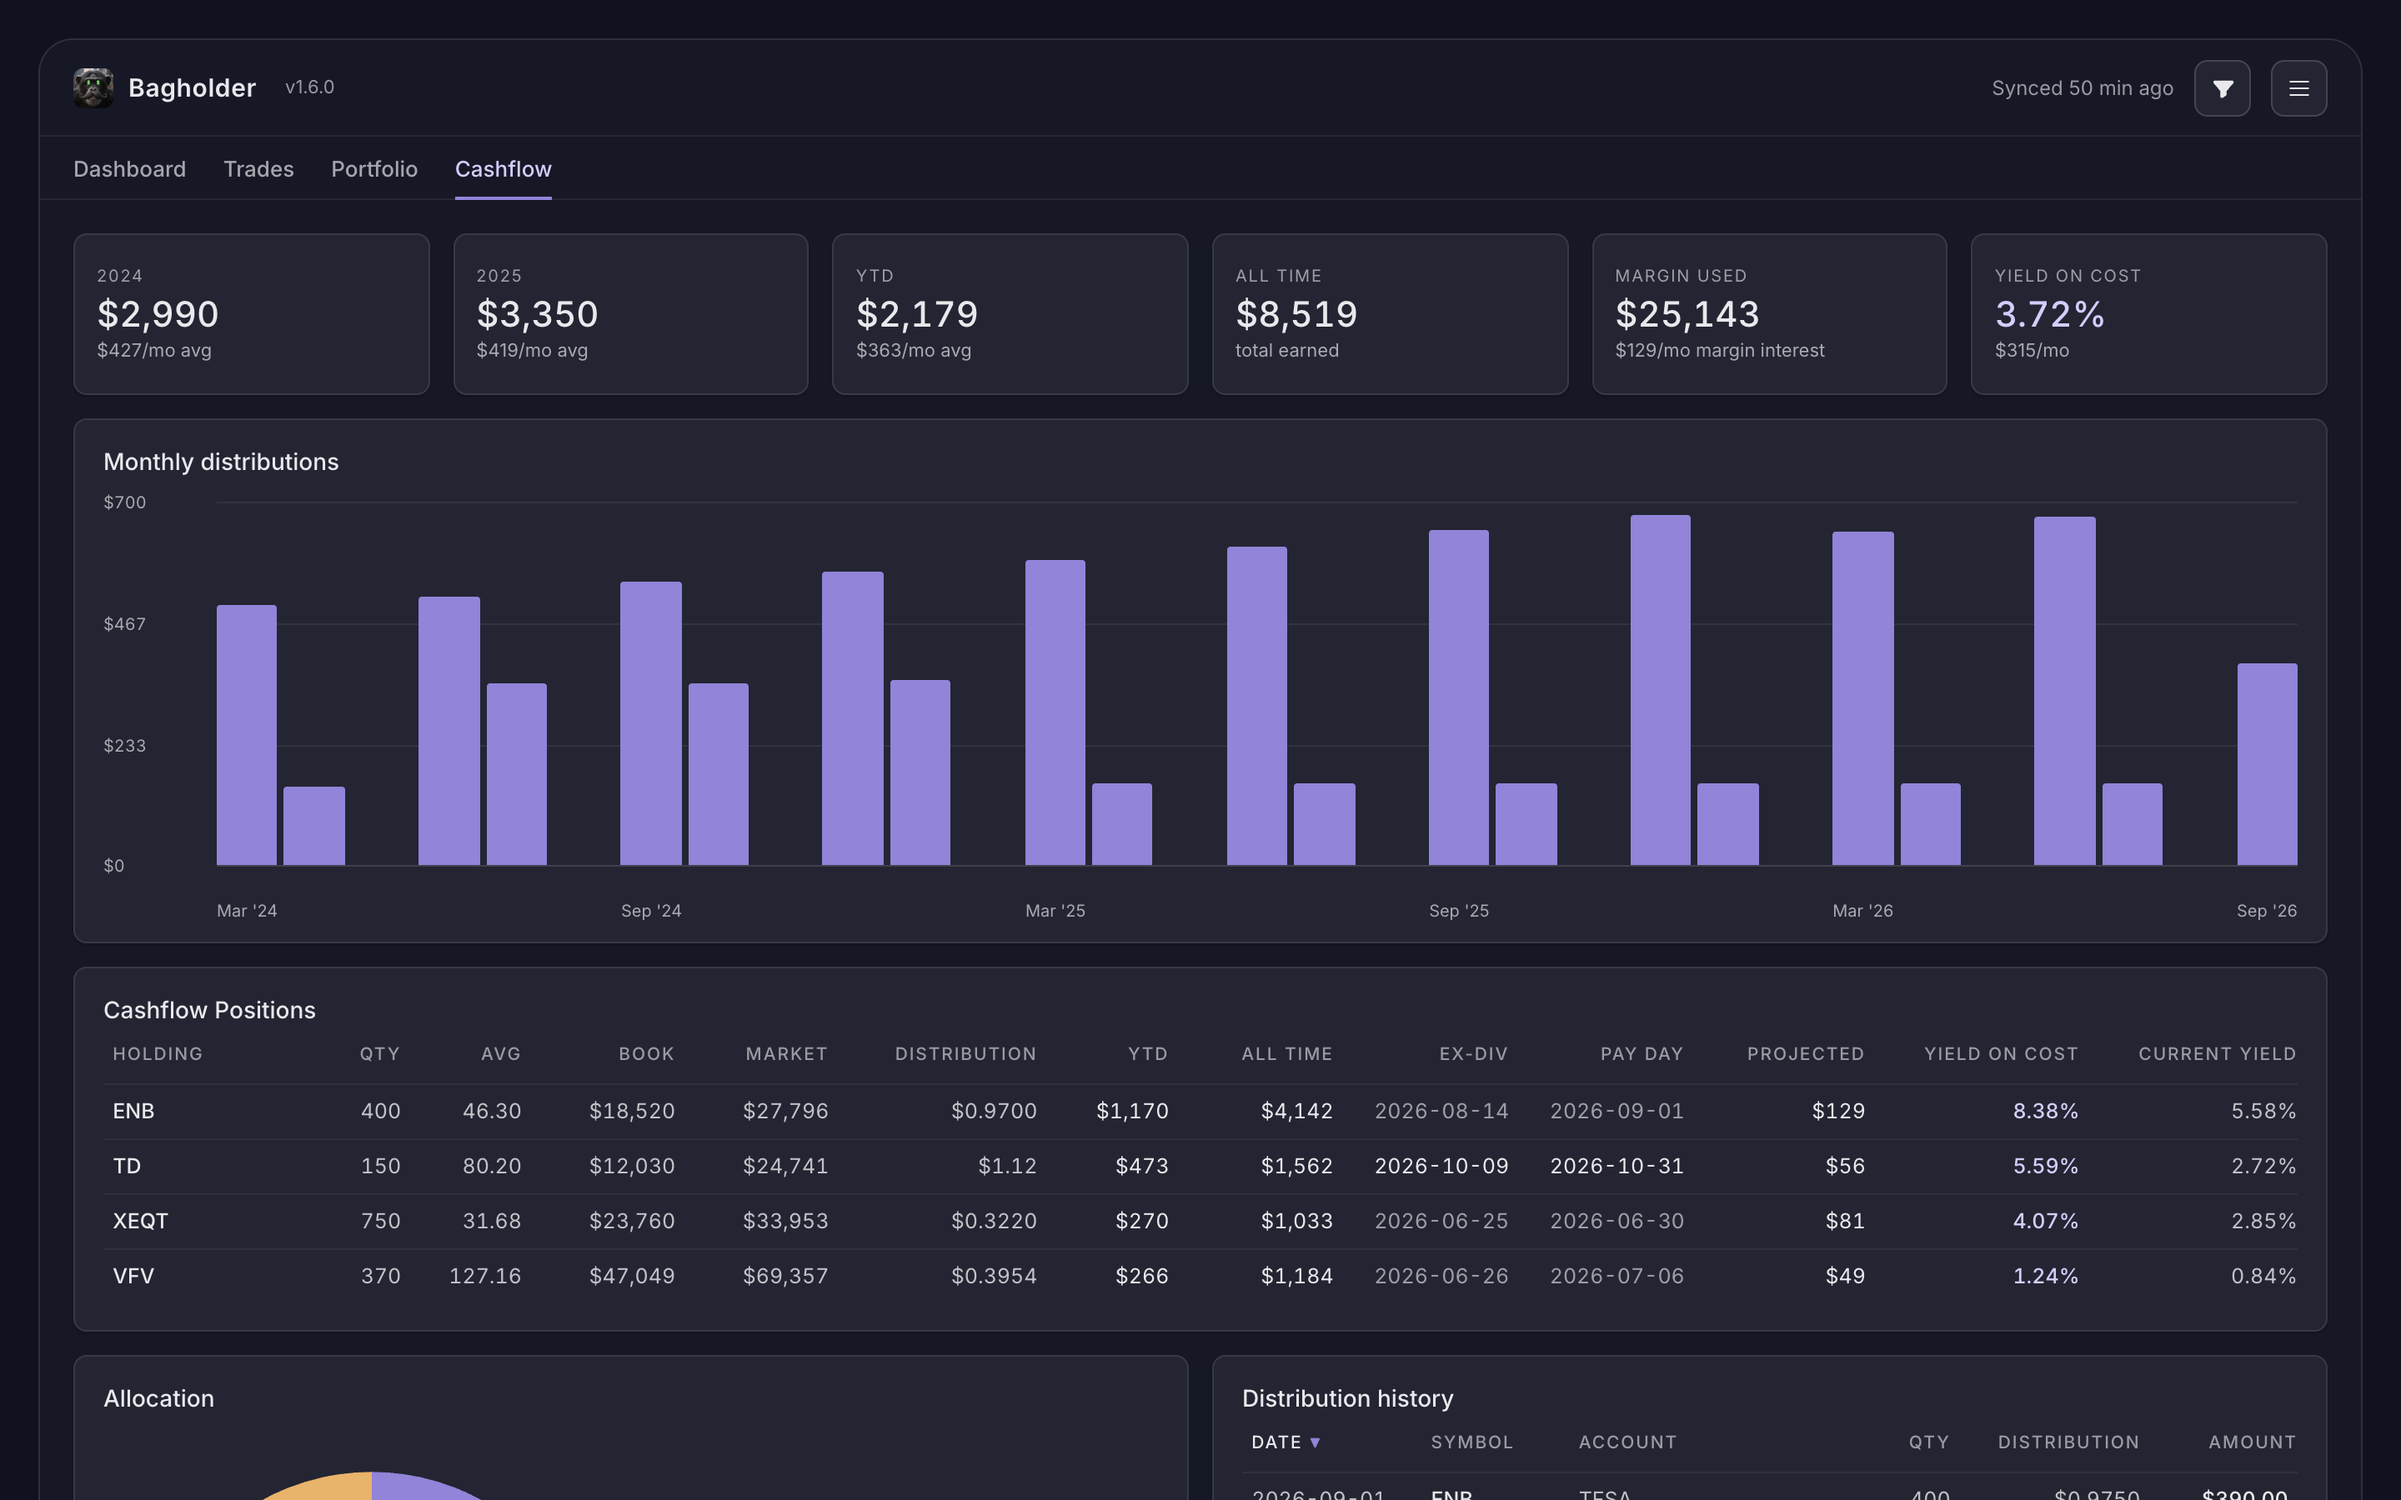
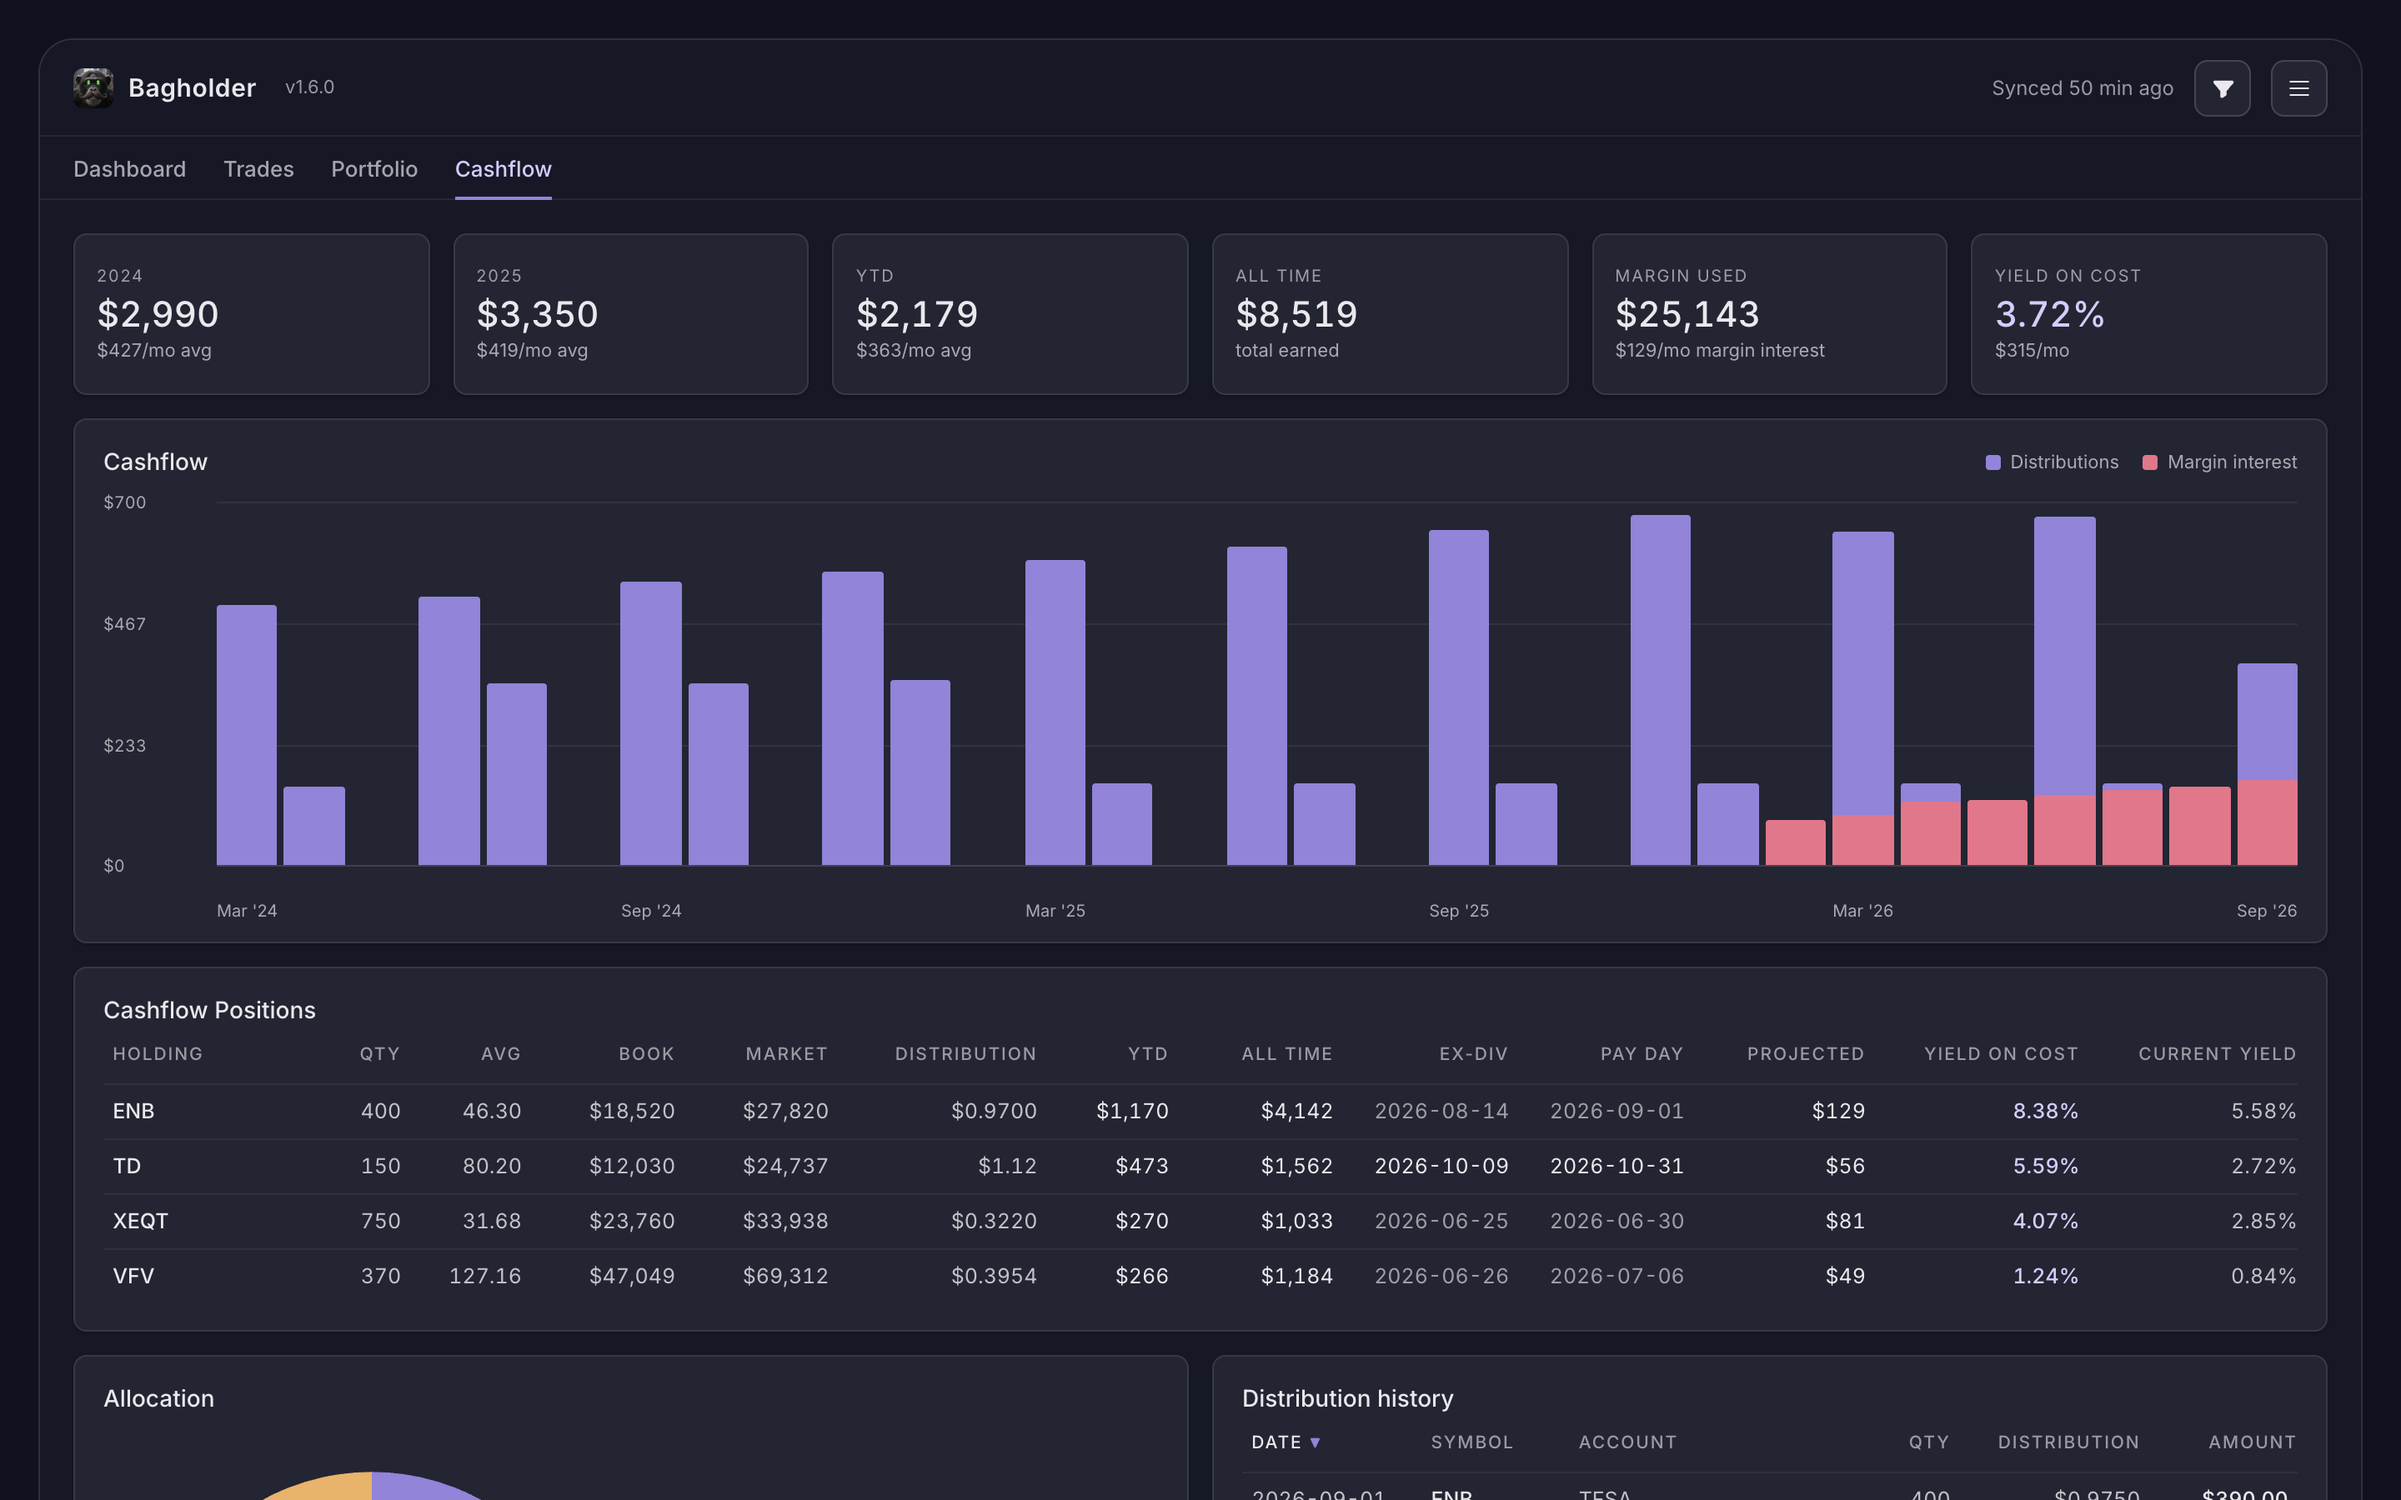
Cashflow chart: the month's margin interest over its distributions, legend in the title row.
The Monthly distributions card is the Cashflow card. Each month's
margin interest (the Interest charge rows in scope, CAD) is drawn over
the month's distributions from the same baseline at the same width in
the negative colour, so the accent left above it is the net; the
taller bar sits behind, so a month whose interest exceeds its
distributions shows the negative colour above the accent. The scale
fits the taller of the two. The legend sits at the right of the title
row. Hover shows the month, Distributions, Margin interest and Net
cashflow. SPEC §4 updated; the README desktop image reshot.

Changed region(s): [[0.7188, 0.4978, 0.9688, 0.5911], [0.0312, 0.28, 0.125, 0.3111]]

diff --git a/ledger.html b/ledger.html
@@ -1283,7 +1283,8 @@ function cashflowHtml(m) {
   const skipped = c.skippedFilters || [];
   const note = skipped.length ? skipped.join(", ") + (skipped.length > 1 ? " filters do not" : " filter does not") + " apply to distributions — only account, date and symbol narrow this page." : "";
   const ms = c.months || [];
-  const peak = Math.max.apply(null, ms.map((x) => x.value).concat([0]));
+  const interest = cfInterestByMonth(c);
+  const peak = Math.max.apply(null, ms.map((x) => Math.max(x.value, interest[x.key] || 0)).concat([0]));
   const head = Math.max(100, Math.ceil(peak / 100) * 100);
   const want = Math.min(6, ms.length);
   const axis = [];
@@ -1304,11 +1305,19 @@ function cashflowHtml(m) {
   const otherLine = "";
   return '<div style="padding:20px;display:flex;flex-direction:column;gap:14px;min-height:380px"><div style="display:grid;grid-template-columns:repeat(6,minmax(0,1fr));gap:14px">' + tiles + "</div>" +
     (note ? '<div class="dim" style="font-size:11px;line-height:1.5">' + esc(note) + "</div>" : "") +
-    '<div class="card elev-sm" style="padding:16px 18px 12px"><h5>Monthly distributions</h5><div style="display:flex;gap:10px;flex:1;min-height:232px;margin-top:14px"><div style="position:relative;width:58px;flex:none;font-size:10px;color:var(--ink60)" class="tab">' +
+    '<div class="card elev-sm" style="padding:16px 18px 12px"><div style="display:flex;align-items:baseline;justify-content:space-between;gap:8px"><h5>Cashflow</h5>' +
+    '<div style="display:flex;align-items:center;gap:14px;font-size:11px;color:var(--ink60)"><span style="display:inline-flex;align-items:center;gap:6px"><span style="width:9px;height:9px;border-radius:2px;background:var(--accent-bar)"></span>Distributions</span><span style="display:inline-flex;align-items:center;gap:6px"><span style="width:9px;height:9px;border-radius:2px;background:var(--neg)"></span>Margin interest</span></div></div>' +
+    '<div style="display:flex;gap:10px;flex:1;min-height:232px;margin-top:14px"><div style="position:relative;width:58px;flex:none;font-size:10px;color:var(--ink60)" class="tab">' +
     [0, 1, 2, 3].map((i) => '<span style="position:absolute;left:0;top:' + (i / 3 * 94).toFixed(1) + '%;transform:translateY(-50%)">' + money0(head * (1 - i / 3)) + "</span>").join("") + "</div>" +
-    '<div id="cfPlot" style="position:relative;flex:1;min-width:0;display:flex;gap:4px;align-items:stretch" data-hover="cf"><div id="cfX" class="xline" hidden></div><div id="cfTip" class="tip" hidden><div class="tv" style="color:var(--accent-300)"></div><div class="tl"></div></div>' +
+    '<div id="cfPlot" style="position:relative;flex:1;min-width:0;display:flex;gap:4px;align-items:stretch" data-hover="cf"><div id="cfX" class="xline" hidden></div><div id="cfTip" class="tip" hidden></div>' +
     [0, 1, 2, 3].map((i) => '<div style="position:absolute;left:0;right:0;top:' + (i / 3 * 94).toFixed(1) + "%;height:1px;background:" + (i === 3 ? "var(--hair)" : "var(--grid)") + '"></div>').join("") +
-    (ms.length ? ms.map((b, i) => '<div class="bar-col" data-i="' + i + '" style="cursor:default"><div style="position:absolute;left:0;right:0;bottom:6%;height:' + (b.count === 0 ? 0 : Math.max(1.5, b.value / head * 94)).toFixed(1) + '%;background:var(--accent-bar);border-radius:2px 2px 0 0"></div></div>').join("") : '<div class="muted empty" style="flex:1;font-size:12px">No distributions in this range.</div>') +
+    (ms.length ? ms.map((b, i) => {
+      // the month's margin interest over its distributions from the same baseline at the same width; the taller bar behind
+      const hd = b.count === 0 ? 0 : Math.max(1.5, b.value / head * 94), hi = (interest[b.key] || 0) / head * 94;
+      const bar = (h, color) => '<div style="position:absolute;left:0;right:0;bottom:6%;height:' + h.toFixed(1) + "%;background:" + color + ';border-radius:2px 2px 0 0"></div>';
+      const dist = bar(hd, "var(--accent-bar)"), intr = hi > 0 ? bar(hi, "var(--neg)") : "";
+      return '<div class="bar-col" data-i="' + i + '" style="cursor:default">' + (hi > hd ? intr + dist : dist + intr) + "</div>";
+    }).join("") : '<div class="muted empty" style="flex:1;font-size:12px">No distributions in this range.</div>') +
     '</div></div><div style="display:flex;justify-content:space-between;font-size:10px;color:var(--ink60);padding-left:68px;margin-top:6px">' + [...new Set(axis)].map((a) => "<span>" + esc(a) + "</span>").join("") + "</div>" +
     (otherLine ? '<div class="muted" style="font-size:10px;margin-top:8px;padding-left:68px">' + esc(otherLine) + "</div>" : "") + "</div>" +
     '<div class="card elev-sm" style="padding:16px 18px"><h5 style="margin-bottom:4px">Cashflow Positions</h5><div class="scroll" style="max-height:344px"><table class="table" style="font-size:12px;table-layout:fixed"><thead><tr>' + th("yoc", ycols) + "</tr></thead><tbody>" +
@@ -1366,6 +1375,12 @@ function cashflowHoldingRows() {
   const c = state.model.cashflow; const posById = {}; (state.model.positions || []).forEach((p) => { posById[p.id] = p; });
   return (c.holdings || []).map((h) => { const p = posById[h.id]; return Object.assign({}, h, { mv: p ? p.mv : null }); });
 }
+// The month's margin interest, CAD, from the Interest charge rows in scope.
+function cfInterestByMonth(c) {
+  const out = {};
+  (c.other || []).forEach((r) => { if (r.kind === "Interest charge") { const k = String(r.date).slice(0, 7); out[k] = (out[k] || 0) - r.amountCad; } });
+  return out;
+}
 function cfHover(e) {
   const m = state.model; if (!m) return;
   const col = e.target.closest(".bar-col"); if (!col) return;
@@ -1375,8 +1390,9 @@ function cfHover(e) {
   const xl = document.getElementById("cfX"), tip = document.getElementById("cfTip");
   xl.style.left = x; xl.hidden = false;
   tip.style.left = x; tip.style.transform = "translateX(" + (i > n * 0.7 ? "-100%" : "-8px") + ")";
-  tip.querySelector(".tv").textContent = money0(b.value);
-  tip.querySelector(".tl").textContent = monthLong(b.key);
+  const intr = cfInterestByMonth(m.cashflow)[b.key] || 0, net = b.value - intr;
+  const row = (label, value, color) => '<div class="tv" style="display:flex;justify-content:space-between;gap:16px' + (color ? ";color:" + color : "") + '"><span style="font-weight:400;color:var(--ink60)">' + label + "</span><span>" + value + "</span></div>";
+  tip.innerHTML = '<div class="tl" style="margin-bottom:2px">' + esc(monthLong(b.key)) + "</div>" + row("Distributions", money0(b.value), "var(--accent-300)") + row("Margin interest", money0(intr), "var(--neg)") + row("Net cashflow", signedMoney(net, "", 0), color(net));
   tip.hidden = false;
 }
 function cfLeave() { ["cfX", "cfTip"].forEach((id) => { const el = document.getElementById(id); if (el) el.hidden = true; }); }

diff --git a/SPEC.md b/SPEC.md
@@ -227,7 +227,7 @@ Six tiles in the style of the dashboard tiles, CAD, dividends in scope:
 | Margin used | The Portfolio tab's Margin used over the accounts in scope | Average margin interest per charged month: the Interest charge rows in scope, summed in CAD, ÷ the number of months carrying one, as `$x/mo margin interest` |
 | Yield on cost | Annual income of all rated holdings ÷ their book cost | Projected monthly income, that annual income ÷ 12, as `$x/mo` |
 
-**Monthly distributions.** One bar per month from the first payment to the current month (or to the end of the date filter), CAD, an empty bar for a month with nothing paid yet, six axis labels, hover shows month and amount.
+**Cashflow.** One bar per month from the first payment to the current month (or to the end of the date filter), CAD, an empty bar for a month with nothing paid yet, six axis labels. The month's distributions in the accent colour, with the month's margin interest (the Interest charge rows in scope, CAD) drawn over it from the same baseline at the same width in the negative colour, so the accent left showing above it is the net; in a month where the interest exceeds the distributions the negative colour rises above the accent. The scale fits the taller of the two. The title row carries the legend at the right. Hover shows the month, Distributions, Margin interest and Net cashflow (signed, coloured).
 
 **Cashflow Positions.** One row per open long position in a dividend-paying symbol, per account:
 
